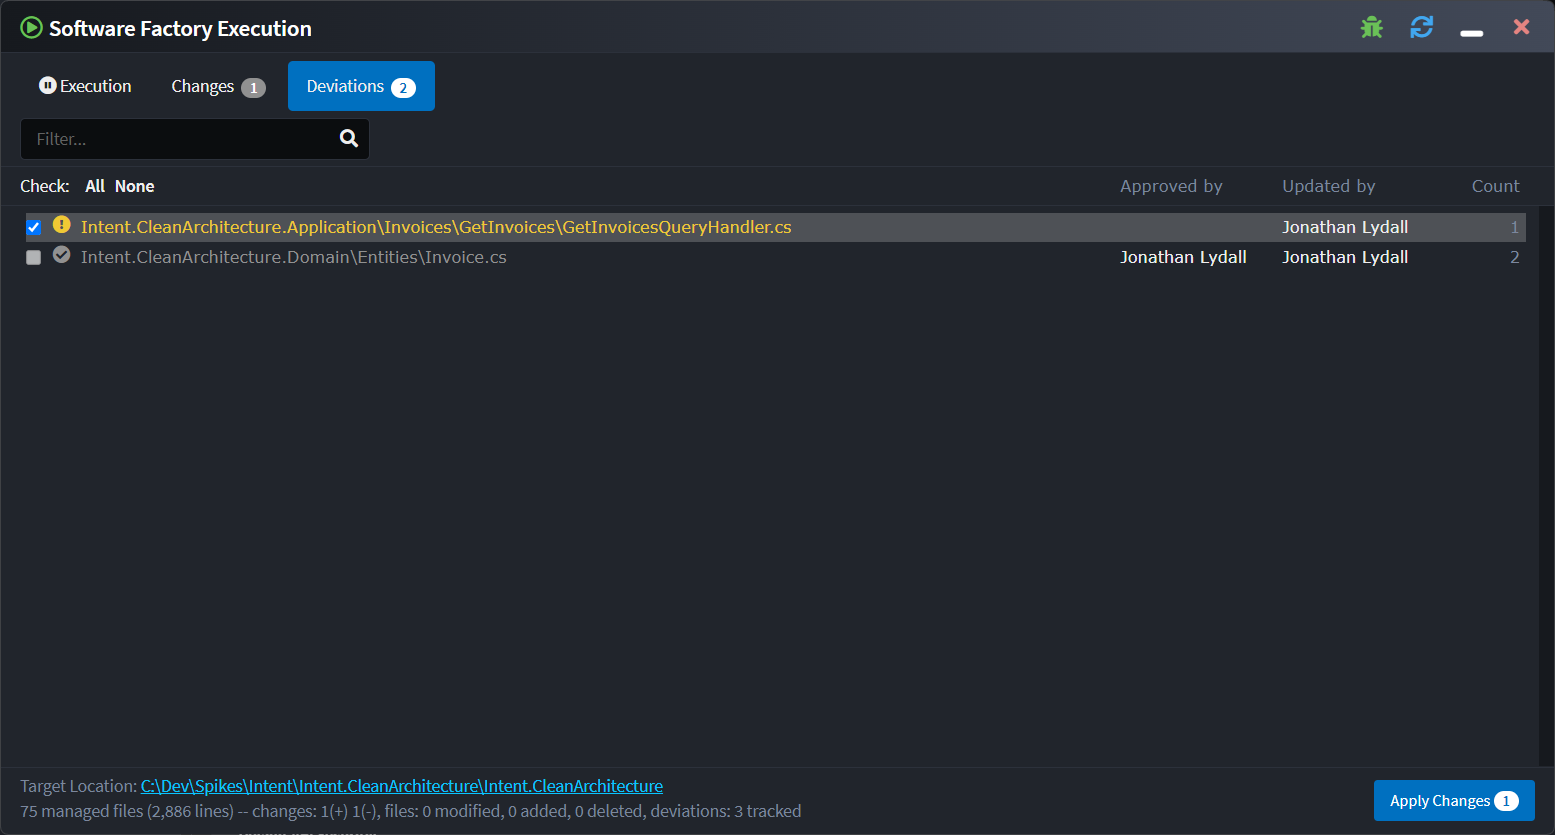
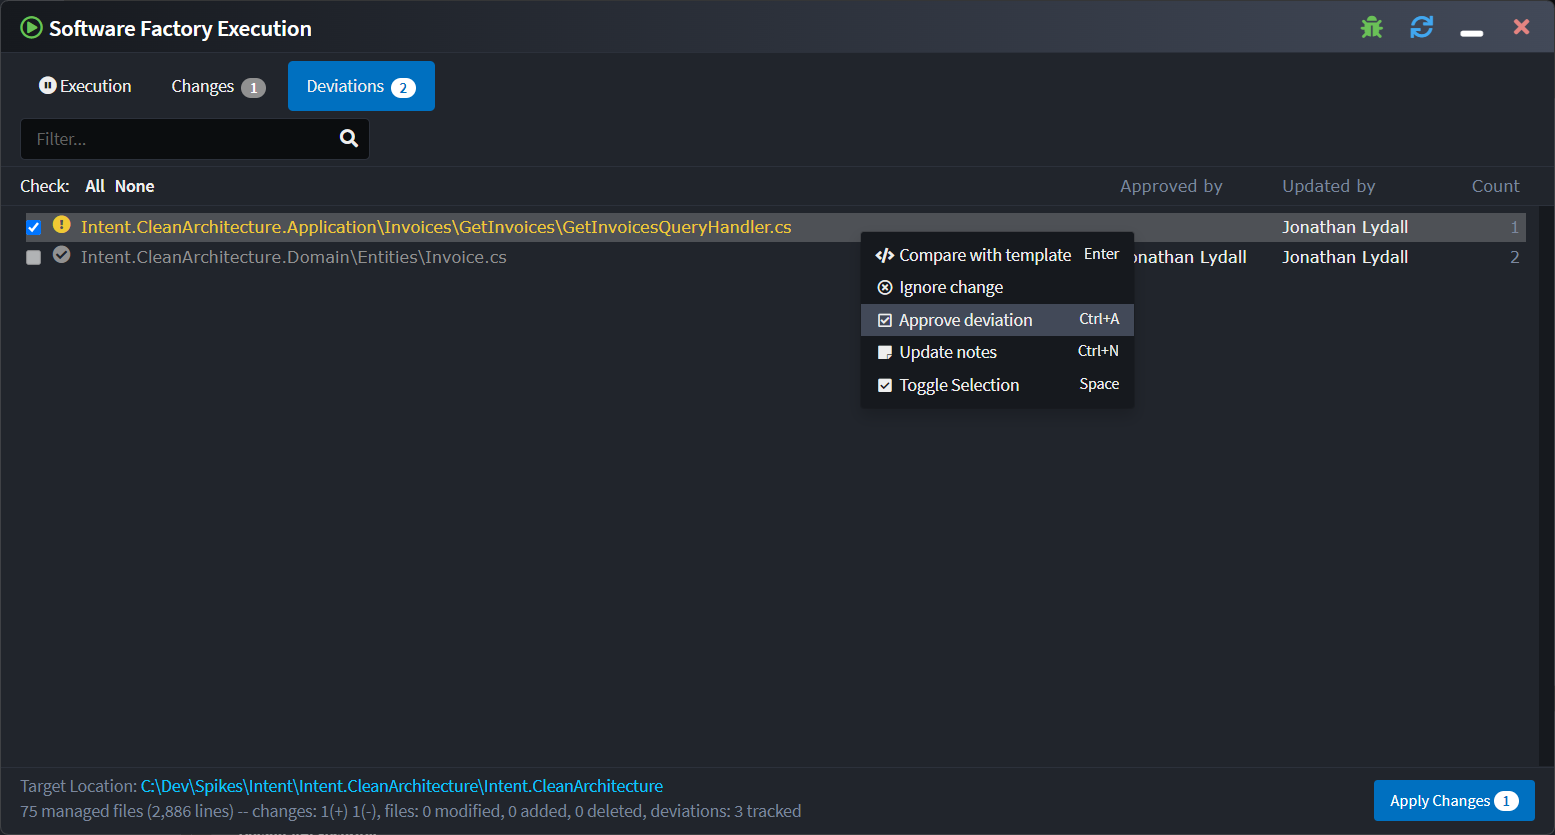
Updated deviations in 4.2 release notes

Changed region(s): [[0.5556, 0.3425, 0.7408, 0.4671], [0.5556, 0.2802, 0.7408, 0.3114]]

diff --git a/articles/application-development/software-factory/about-software-factory-execution/about-software-factory-execution.md b/articles/application-development/software-factory/about-software-factory-execution/about-software-factory-execution.md
@@ -16,18 +16,40 @@ Intent Architect will not make changes to your codebase without your consent. Th
 ![Diff Example](images/diff-example.png)
 _An example diff of changes made to a C# interface that's managed by Intent Architect._
 
-The Software Factory Execution is initiated from within an Application by clicking on the _Run Software Factory_ button in the top tool bar. The execution is typically kicked off after completing some design changes, or installing / updating Modules. 
+The Software Factory Execution is initiated from within an Application by clicking on the _Run Software Factory_ button in the top tool bar. The execution is typically kicked off after completing some design changes, or installing / updating Modules.
 
 ![Play Button](images/software-factory-execution-play-button.png)
-_ Run the Software Factory from the top tool bar _
+_Run the Software Factory from the top tool bar_
 
 You can also run the Software Factory from the applications context menu.
 
 ![Run from Context Menu](images/software-factory-context-menu-run.png)
-_ Run the Software Factory from the application context menu _
+_Run the Software Factory from the application context menu_
 
 The Software Factory can also be minimized to the task bar. In this state the Software Factory will subscribe to changes for the application and automatically run in the background, notifying the user when it has pending changes.
 
-
 ![Running in the Background](images/software-factory-minimized.png)
-_ Minimized Software Factory running in the background. _
+_Minimized Software Factory running in the background._
+
+## The Deviations screen
+
+It can be useful to know which files may not be following the architecture which your installed modules normally generates.
+
+Towards this, the Software Factory is able to track deviations of code management instructions, i.e. where instructions such as `IntentIgnore` are added to files which aren't present in default template output:
+
+![The deviations screen on the Software Factory](images/deviations.png)
+
+Selecting the "Compare with Template" context menu option or simply double-clicking a deviation will open a diff comparing the unmerged template output (left) with the current file (right):
+
+![Diff of a deviation](images/deviation-diff.png)
+
+It is worth noting that editing and saving the file in the right pane will trigger re-running the code merging for that particular file allowing fixing of deviations without having to open the file through some other means.
+
+Deviations can be approved by right-clicking it and selecting "Approve deviation" which will also record who approved the deviation and when. To see when a deviation was approved, you can hover over the name in the "Approved by" column and read the tooltip which shows.
+
+If the particular deviation(s) for the file changes, the approval is revoked, approvals can also be manually revoked using the context menu.
+
+The final option available on the context menu is the ability to update "Notes" on a deviation, allowing you to enter any free form text which you feel may be relevant to a particular deviation.
+
+> [!TIP]
+> The [Software Factory CLI tool](xref:tools.software-factory-cli)'s `ensure-no-outstanding-changes` command has a `--check-deviations` option that can be used on CI environments to automatically detect unapproved deviations pushed into source control.

diff --git a/articles/release-notes/intent-architect-v4.2.md b/articles/release-notes/intent-architect-v4.2.md
@@ -12,35 +12,20 @@ Intent Architect V4.2 comes with several highly anticipated features, many of wh
 
 #### C# code management instruction deviation tracking
 
-The Software Factory now tracks code management instruction deviations, any found are visible on the new _Deviations_ tab:
+It can be useful to know which files may not be following the architecture which your installed Modules normally generates. Intent Architect can now track these "Deviations" and shows them on a new screen during [Software Factory execution](xref:application-development.software-factory.about-software-factory-execution#the-deviations-screen):
 
-![The deviations tab on the Software Factory](images/4.2/deviations.png)
+![The deviations screen on the Software Factory](images/4.2/deviations.png)
 
-Double-clicking a deviation will open a diff comparing the unmerged template output (left) with the current file (right):
+Selecting the "Compare with Template" context menu option, or simply double-clicking a deviation, will open a diff comparing the unmerged template output (left) with the current file (right):
 
 ![Diff of a deviation](images/4.2/deviation-diff.png)
 
-Editing and saving the file in the right pane will trigger re-running the code merging for that particular file, for example to remove instruction deviations:
+It is possible to immediately remove deviations by updating content in the right pane and saving it which will trigger a "re-merging" of the file by the Software Factory.
 
-![Deviation removed](images/4.2/remove-deviation.png)
+Otherwise, deviations can be approved and have notes added to them, for more information refer to the [](xref:application-development.software-factory.about-software-factory-execution#the-deviations-screen) article.
 
-Deviations can be approved by right-clicking it and selecting "Approve deviation":
-
-![Approve deviation](images/4.2/approve-deviation.png)
-
-Approving a deviation records the person who performed the deviation and when they did so:
-
-![Approved deviation details](images/4.2/approved-deviation-detail.png)
-
-If the particular deviation(s) for the file changes, the approval is automatically revoked, approvals can also be manually revoked using the context menu.
-
-Also available through the context menu is the ability to update "Notes" on the deviation:
-
-![Notes dialogue](images/4.2/deviation-notes-dialog.png)
-
-![Notes applied](images/4.2/deviation-notes-applied.png)
-
-Finally, the [Software Factory CLI tool](xref:tools.software-factory-cli)'s `ensure-no-outstanding-changes` command now has a `--check-deviations` option that when applied will cause the tool to also "break the build" when any unapproved deviations are detected.
+> [!NOTE]
+> At this time deviation tracking is only supported for C# files and requires at least version `4.6.0` of the `Intent.OutputManager.RoslynWeaver` module to be installed.
 
 #### Edits to staged changes will now be applied
 
